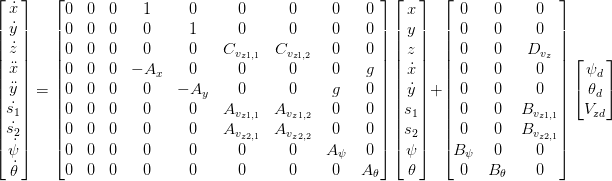
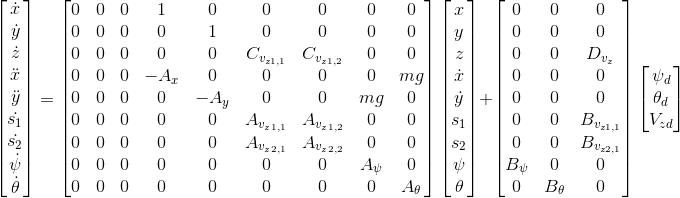
fix typo

diff --git a/bebop_identification/identification_result/test_with_yaw.m b/bebop_identification/identification_result/test_with_yaw.m
@@ -2,6 +2,7 @@ clear; clc; close all;
 
 % Continuous-time model
 Ts =   1 / 15; % sampling time
+m =       0.5; % mass [kg]
 g =      9.81; % gravity
 Ax =   0.1840; % air drag
 Ay =   0.2007; % air drag
@@ -31,8 +32,8 @@ yd =   0.0000; % yall model
 A = [   0,  0,  0,  1,  0,  0,  0,  0,  0,  0,  0,  0; % x
         0,  0,  0,  0,  1,  0,  0,  0,  0,  0,  0,  0; % y
         0,  0,  0,  0,  0,vc1,vc2,  0,  0,  0,  0,  0; % z
-        0,  0,  0,-Ax,  0,  0,  0,  0,  g,  0,  0,  0; % vx
-        0,  0,  0,  0,-Ay,  0,  0,  g,  0,  0,  0,  0; % vy
+        0,  0,  0,-Ax,  0,  0,  0,  0,m*g,  0,  0,  0; % vx
+        0,  0,  0,  0,-Ay,  0,  0,m*g,  0,  0,  0,  0; % vy
         0,  0,  0,  0,  0,va1,va2,  0,  0,  0,  0,  0; % z1
         0,  0,  0,  0,  0,va3,va4,  0,  0,  0,  0,  0; % z2
         0,  0,  0,  0,  0,  0,  0, ra,  0,  0,  0,  0; % roll

diff --git a/bebop_identification/identification_result/test.m b/bebop_identification/identification_result/test.m
@@ -2,6 +2,7 @@ clear; clc; close all;
 
 % Continuous-time model
 Ts =   1 / 15; % sampling time
+m =       0.5; % mass [kg]
 g =      9.81; % gravity
 Ax =   0.1840; % air drag
 Ay =   0.2007; % air drag
@@ -31,8 +32,8 @@ yd =   0.0000; % yall model
 A = [   0,  0,  0,  1,  0,  0,  0,  0,  0; % x
         0,  0,  0,  0,  1,  0,  0,  0,  0; % y
         0,  0,  0,  0,  0,vc1,vc2,  0,  0; % z
-        0,  0,  0,-Ax,  0,  0,  0,  0,  g; % vx
-        0,  0,  0,  0,-Ay,  0,  0,  g,  0; % vy
+        0,  0,  0,-Ax,  0,  0,  0,  0,m*g; % vx
+        0,  0,  0,  0,-Ay,  0,  0,m*g,  0; % vy
         0,  0,  0,  0,  0,va1,va2,  0,  0; % z1
         0,  0,  0,  0,  0,va3,va4,  0,  0; % z2
         0,  0,  0,  0,  0,  0,  0, ra,  0; % roll

diff --git a/README.md b/README.md
@@ -27,7 +27,7 @@ The ground truth data can be read via topic /simulator/odometry.
 
 #### Model Identification
 
-Different models are simply estimated, including pitch, roll, and vertical velocity, yawrate. Some estimated parameter can be found in [results.txt](https://github.com/0Jiahao/bebop_simulator/blob/master/bebop_identification/identification_result/results.txt). We currently using pitch, roll and vertical velocity for system modelling.
+Different models are simply estimated, including pitch, roll, and vertical velocity, yawrate, air drag. Some estimated parameter can be found in [results.txt](https://github.com/0Jiahao/bebop_simulator/blob/master/bebop_identification/identification_result/results.txt). We currently using pitch, roll and vertical velocity for system modelling.
 
 **Pitch Model** is a first-order system
 <p align="center">
@@ -59,10 +59,12 @@ with constraint
   <img src="img/vz_constraint.png">
 </p>
 
-The integrated system (linearized around stationary) can be written as
+The **Integrated System** (linearized around stationary) can be written as
 <p align="center">
   <img src="img/state_equation.png">
 </p>
 <p align="center">
   <img src="img/output_equation.png">
 </p>
+
+Note that the <img src="img/airdrag_x.png"> and <img src="img/airdrag_y.png"> are the estimated coefficients of air drag force.
